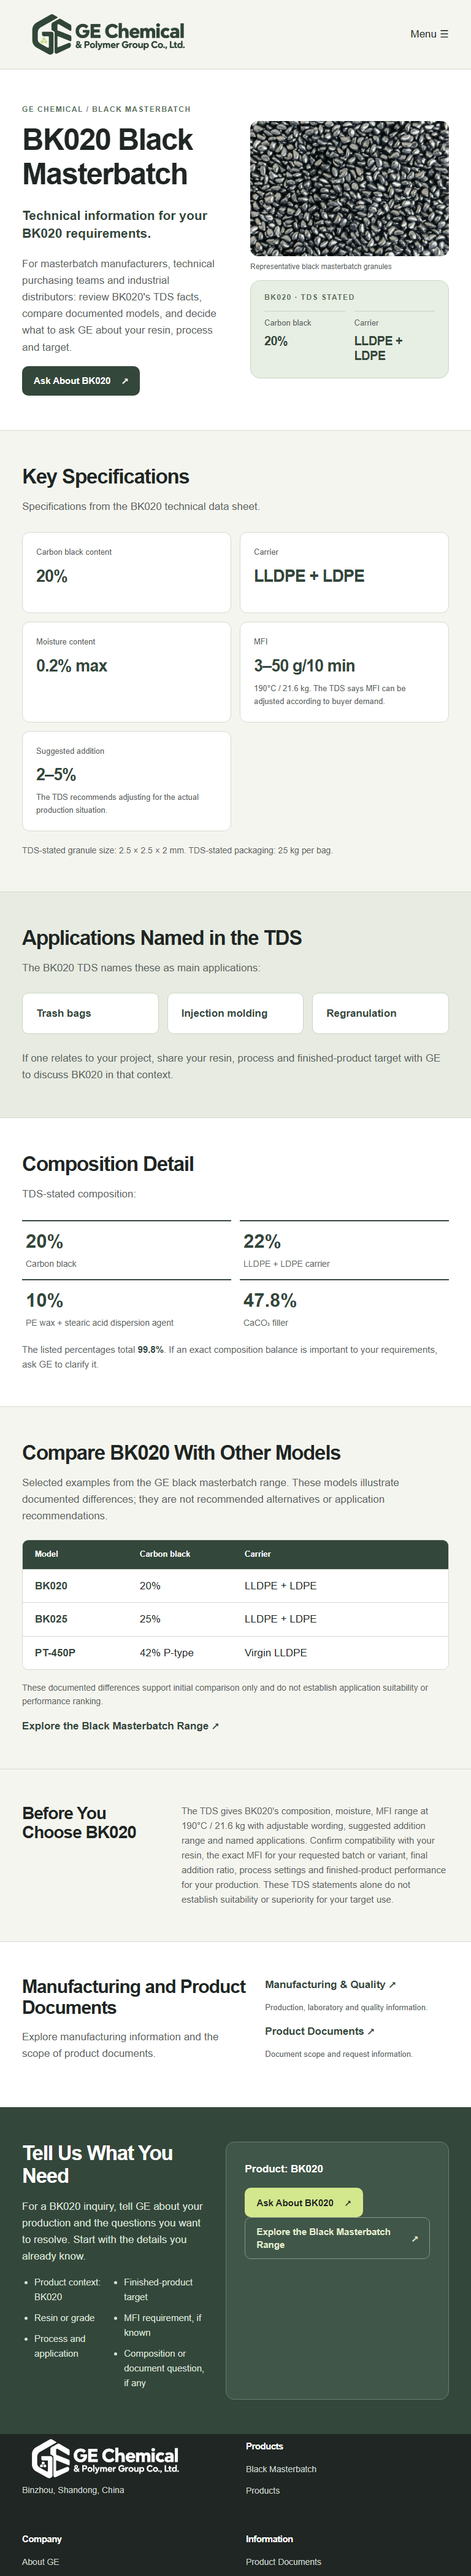
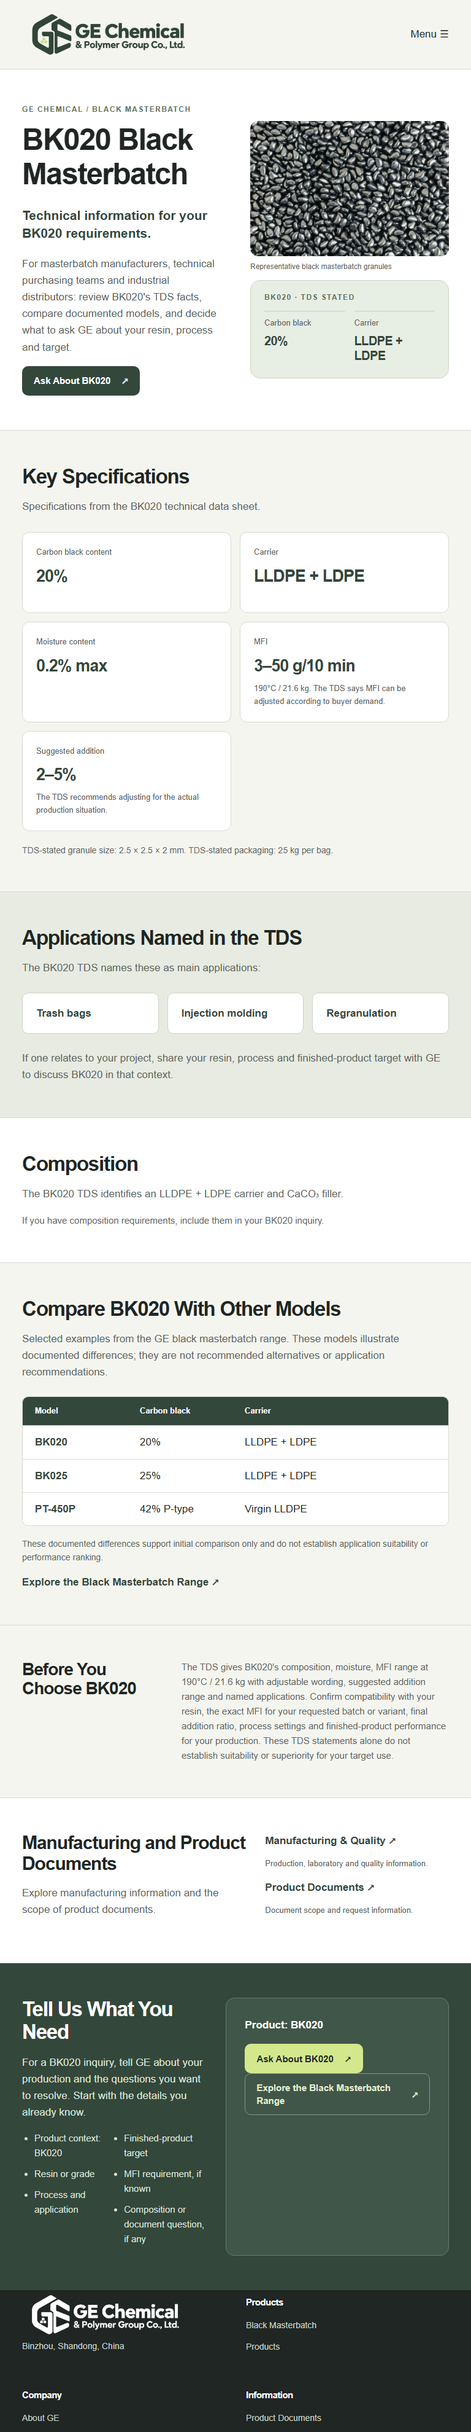
Limit BK020 public composition disclosure

diff --git a/planning/visuals/P017/p017-visual.html b/planning/visuals/P017/p017-visual.html
@@ -4,7 +4,7 @@
 <section class="hero module"><div class="shell hero-layout"><div class="hero-copy"><p class="eyebrow">GE Chemical / Black masterbatch</p><h1>BK020 Black Masterbatch</h1><p class="lead">Technical information for your BK020 requirements.</p><p>For masterbatch manufacturers, technical purchasing teams and industrial distributors: review BK020's TDS facts, compare documented models, and decide what to ask GE about your resin, process and target.</p><a class="btn primary" href="/rfq/" data-product-context="BK020">Ask About BK020 <span aria-hidden="true">↗</span></a></div><div class="hero-media"><figure><img src="../../inputs/Cmp_Info/PIC&amp;Vedio/微信图片_20260707174840_213_1.jpg" alt="Representative black masterbatch granules"><figcaption>Representative black masterbatch granules</figcaption></figure><div class="snapshot"><p class="snapshot-label">BK020 · TDS stated</p><div class="snapshot-grid"><div><span>Carbon black</span><strong>20%</strong></div><div><span>Carrier</span><strong>LLDPE + LDPE</strong></div></div></div></div></div></section>
 <section class="specs module"><div class="shell"><div class="intro"><h2>Key Specifications</h2><p>Specifications from the BK020 technical data sheet.</p></div><div class="spec-grid"><div class="spec"><span>Carbon black content</span><strong>20%</strong></div><div class="spec"><span>Carrier</span><strong>LLDPE + LDPE</strong></div><div class="spec"><span>Moisture content</span><strong>0.2% max</strong></div><div class="spec"><span>MFI</span><strong>3–50 g/10 min</strong><p>190°C / 21.6 kg. The TDS says MFI can be adjusted according to buyer demand.</p></div><div class="spec"><span>Suggested addition</span><strong>2–5%</strong><p>The TDS recommends adjusting for the actual production situation.</p></div></div><p class="minor-detail">TDS-stated granule size: 2.5 × 2.5 × 2 mm. TDS-stated packaging: 25 kg per bag.</p></div></section>
 <section class="uses module"><div class="shell"><div class="intro"><h2>Applications Named in the TDS</h2><p>The BK020 TDS names these as main applications:</p></div><div class="use-grid"><div>Trash bags</div><div>Injection molding</div><div>Regranulation</div></div><p class="use-note">If one relates to your project, share your resin, process and finished-product target with GE to discuss BK020 in that context.</p></div></section>
-<section class="composition module"><div class="shell"><div class="intro"><h2>Composition Detail</h2><p>TDS-stated composition:</p></div><div class="composition-grid"><div><strong>20%</strong><span>Carbon black</span></div><div><strong>22%</strong><span>LLDPE + LDPE carrier</span></div><div><strong>10%</strong><span>PE wax + stearic acid dispersion agent</span></div><div><strong>47.8%</strong><span>CaCO₃ filler</span></div></div><p class="composition-note">The listed percentages total <strong>99.8%</strong>. If an exact composition balance is important to your requirements, ask GE to clarify it.</p></div></section>
+<section class="composition module"><div class="shell"><div class="intro"><h2>Composition</h2><p>The BK020 TDS identifies an LLDPE + LDPE carrier and CaCO₃ filler.</p></div><p class="composition-note">If you have composition requirements, include them in your BK020 inquiry.</p></div></section>
 <section class="compare module"><div class="shell"><div class="intro"><h2>Compare BK020 With Other Models</h2><p>Selected examples from the GE black masterbatch range. These models illustrate documented differences; they are not recommended alternatives or application recommendations.</p></div><div class="compare-table"><div class="compare-head"><span>Model</span><span>Carbon black</span><span>Carrier</span></div><div class="compare-row"><strong>BK020</strong><span>20%</span><span>LLDPE + LDPE</span></div><div class="compare-row"><strong>BK025</strong><span>25%</span><span>LLDPE + LDPE</span></div><div class="compare-row"><strong>PT-450P</strong><span>42% P-type</span><span>Virgin LLDPE</span></div></div><p class="compare-note">These documented differences support initial comparison only and do not establish application suitability or performance ranking.</p><a class="text-link" href="/products/black-masterbatch/">Explore the Black Masterbatch Range ↗</a></div></section>
 <section class="boundary module"><div class="shell boundary-inner"><h2>Before You Choose BK020</h2><p>The TDS gives BK020's composition, moisture, MFI range at 190°C / 21.6 kg with adjustable wording, suggested addition range and named applications. Confirm compatibility with your resin, the exact MFI for your requested batch or variant, final addition ratio, process settings and finished-product performance for your production. These TDS statements alone do not establish suitability or superiority for your target use.</p></div></section>
 <section class="evidence module"><div class="shell evidence-inner"><div><h2>Manufacturing and Product Documents</h2><p>Explore manufacturing information and the scope of product documents.</p></div><div class="evidence-links"><a class="text-link" href="/manufacturing-quality/">Manufacturing &amp; Quality ↗</a><small>Production, laboratory and quality information.</small><a class="text-link" href="/documents/">Product Documents ↗</a><small>Document scope and request information.</small></div></div></section>

diff --git a/planning/pages/P017.md b/planning/pages/P017.md
@@ -157,7 +157,7 @@ The BK020 technical data sheet gives these facts for an initial evaluation:
 
 ### Detailed composition and clarification
 
-The BK020 sheet also states 22% LLDPE + LDPE carrier, 10% PE wax + stearic acid dispersion agent, and 47.8% CaCO₃ filler, alongside 20% carbon black. The listed percentages total **99.8%**. If an exact composition balance matters to your evaluation, ask GE to clarify it.
+The BK020 TDS identifies an LLDPE + LDPE carrier and CaCO₃ filler. If you have composition requirements, include them in your BK020 inquiry.
 
 The sheet describes black granules measuring 2.5 × 2.5 × 2 mm and packaging of 25 kg per bag.
 
@@ -242,3 +242,10 @@ The owner's “Final Revision Pass for BK020 Product Detail Page” request and 
 - **Inquiry architecture:** every Ask About BK020 action now targets the intended P006 `/rfq/` route; it no longer opens email or substitutes a section jump for inquiry completion. `data-product-context="BK020"` is a static drawing annotation only. It neither transmits BK020 to the destination nor establishes a real prefill mechanism. P006 owns the future automatic context handoff, actual submission, persistence, receiver and truthful success/error feedback; its existing unknown-model entry must be preserved. No query name, form field or delivery outcome is guessed. The P013 range route remains the secondary action.
 
 Fresh local read-only checks returned 200 for P013 and P005, and 404 for P004 and P006. Future route retention is explicitly owner-authorized for the visual candidate; it is not link-availability verification. Static exports at 1440/768/390 were regenerated, images loaded and no horizontal overflow was found. Independent buyer review found no required factual/copy revision and returned **`DECISION_NEEDED`** for the explicit public-composition disclosure choice. Before implementation/release, resolve that owner choice, reconcile confirmed presentation wording into the single Full Copy source, and implement/verify P004 and the P006 BK020 context→submit→success/error journey in their own page scopes. No WordPress, unrelated page, delivery, performance or suitability behavior is modified by this pass. `Status: PLANNED`.
+
+
+### Owner composition-disclosure decision — 2026-10-03
+
+The owner confirmed “不公开完整比例。” This resolves the public-formulation disclosure choice in the preceding review. The current visual and the Full Copy composition paragraph omit the carrier, dispersion-agent and filler percentages and the 99.8% listed-total clarification. Composition now gives only the TDS-stated carrier and filler materials, with an optional composition-question prompt. The separately approved 20% carbon-black specification remains in the Hero, Key Specifications and model comparison. Full source percentages and the unaltered 99.8% sum remain internal evidence; preceding Skeleton and visual disclosure proposals are historical and superseded by this decision, not instructions for publication. No missing 0.2% is inferred. All other model facts, qualifiers, planned RFQ/manufacturing routes and the P013 secondary route remain unchanged. The disclosure decision does not approve the complete visual or authorize WordPress implementation or publication. `Status: PLANNED`.
+
+Independent read-only re-review of this scoped disclosure amendment returned `REVIEW_READY`, with no required finding. The complete static exports at 1440/768/390 were regenerated and visually inspected; all images loaded and no horizontal overflow was found. This is static visual verification only.
